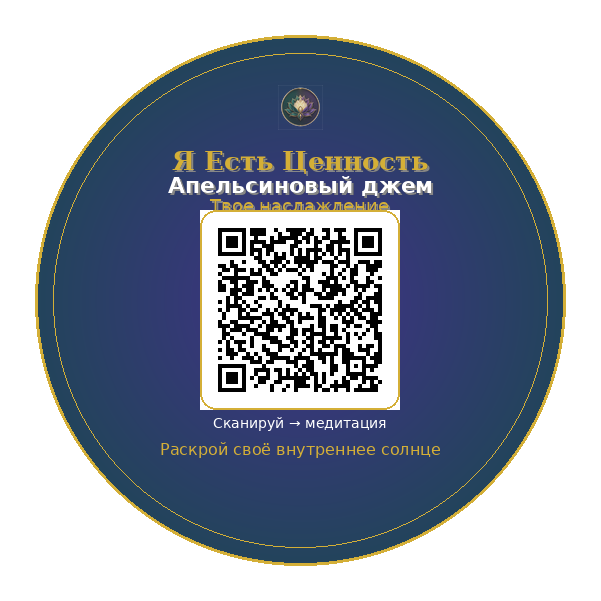
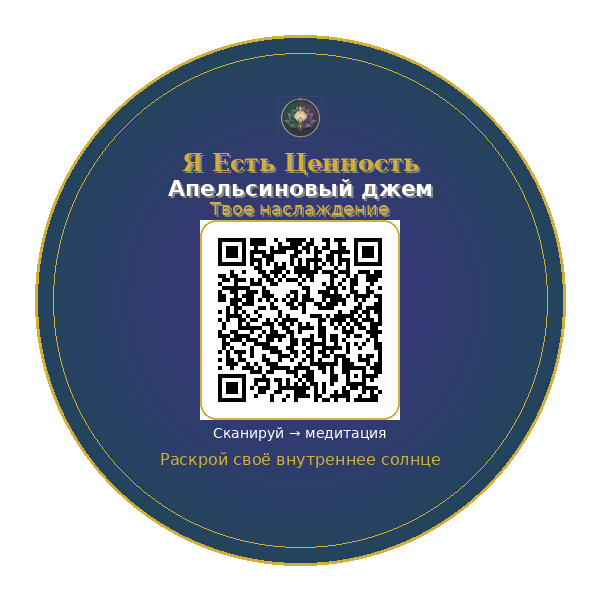
fix: increase spacing between tagline and QR on jar sticker

Changed region(s): [[0.2696, 0.1498, 0.7488, 0.7787]]

diff --git a/design/generate_jar_sticker.py b/design/generate_jar_sticker.py
@@ -114,31 +114,31 @@ def make_sticker(bot_username='iamselfvalue_bot', campaign='orange_jam'):
         alpha = logo.split()[-1].point(lambda a: int(a * 0.85))
         logo.putalpha(alpha)
         lx = (TOTAL - logo_size) // 2
-        ly = 85
+        ly = 96
         img.paste(logo, (lx, ly), logo)
 
     # Fonts (scaled for the 45 mm sticker)
-    brand_font = load_font(FONT_SERIF, 26)
+    brand_font = load_font(FONT_SERIF, 24)
     flavor_font = load_font(FONT_SANS_BOLD, 22)
     tagline_font = load_font(FONT_SANS, 18)
     sub_font = load_font(FONT_SANS, 16)
     hint_font = load_font(FONT_SANS, 14)
 
     # Texts
-    brand_y = 145
+    brand_y = 148
     draw_text_center(draw, 'Я Есть Ценность', brand_y, brand_font, GOLD)
 
-    flavor_y = 172
+    flavor_y = 175
     draw_text_center(draw, 'Апельсиновый джем', flavor_y, flavor_font, WHITE)
 
-    tagline_y = 195
+    tagline_y = 198
     draw_text_center(draw, 'Твое наслаждение', tagline_y, tagline_font, GOLD)
 
     # QR code in center
     qr_size = 180
     qr = make_qr(url, qr_size)
     qx = (TOTAL - qr_size) // 2
-    qy = CENTER - (qr_size // 2) + 10
+    qy = CENTER - (qr_size // 2) + 20
     # white rounded backing
     backing = Image.new('RGBA', (qr_size + 20, qr_size + 20), WHITE)
     draw_back = ImageDraw.Draw(backing)
